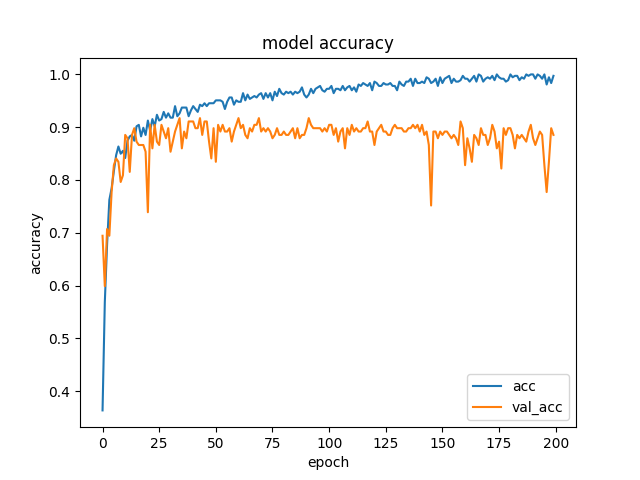
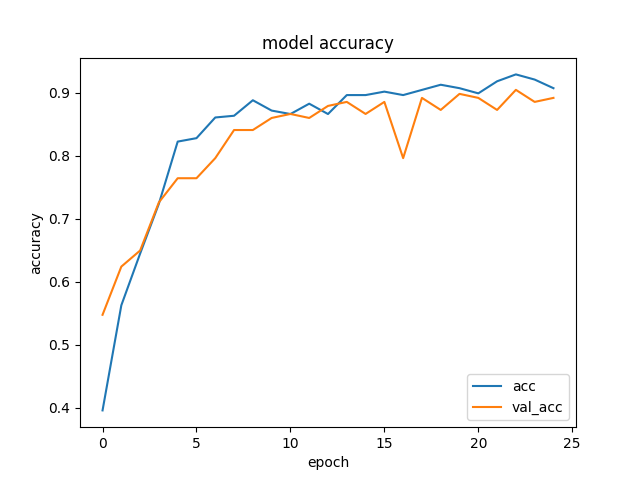
epoch数、変更

diff --git a/keras_cnn_train.py b/keras_cnn_train.py
@@ -10,7 +10,7 @@ from sklearn import model_selection
 from PIL import Image
 
 batch_size = 10
-epochs = 200
+epochs = 25
 image_w = 32
 image_h = 32
 

diff --git a/README.md b/README.md
@@ -59,7 +59,6 @@ $ python keras_cnn_train.py
 
 ![img](keras_cnn_train_2.png)  
 
-青い線では間違いが減ってるが、オレンジだとスコアが悪くなってるので過学習を起こしてる
 
 
 
